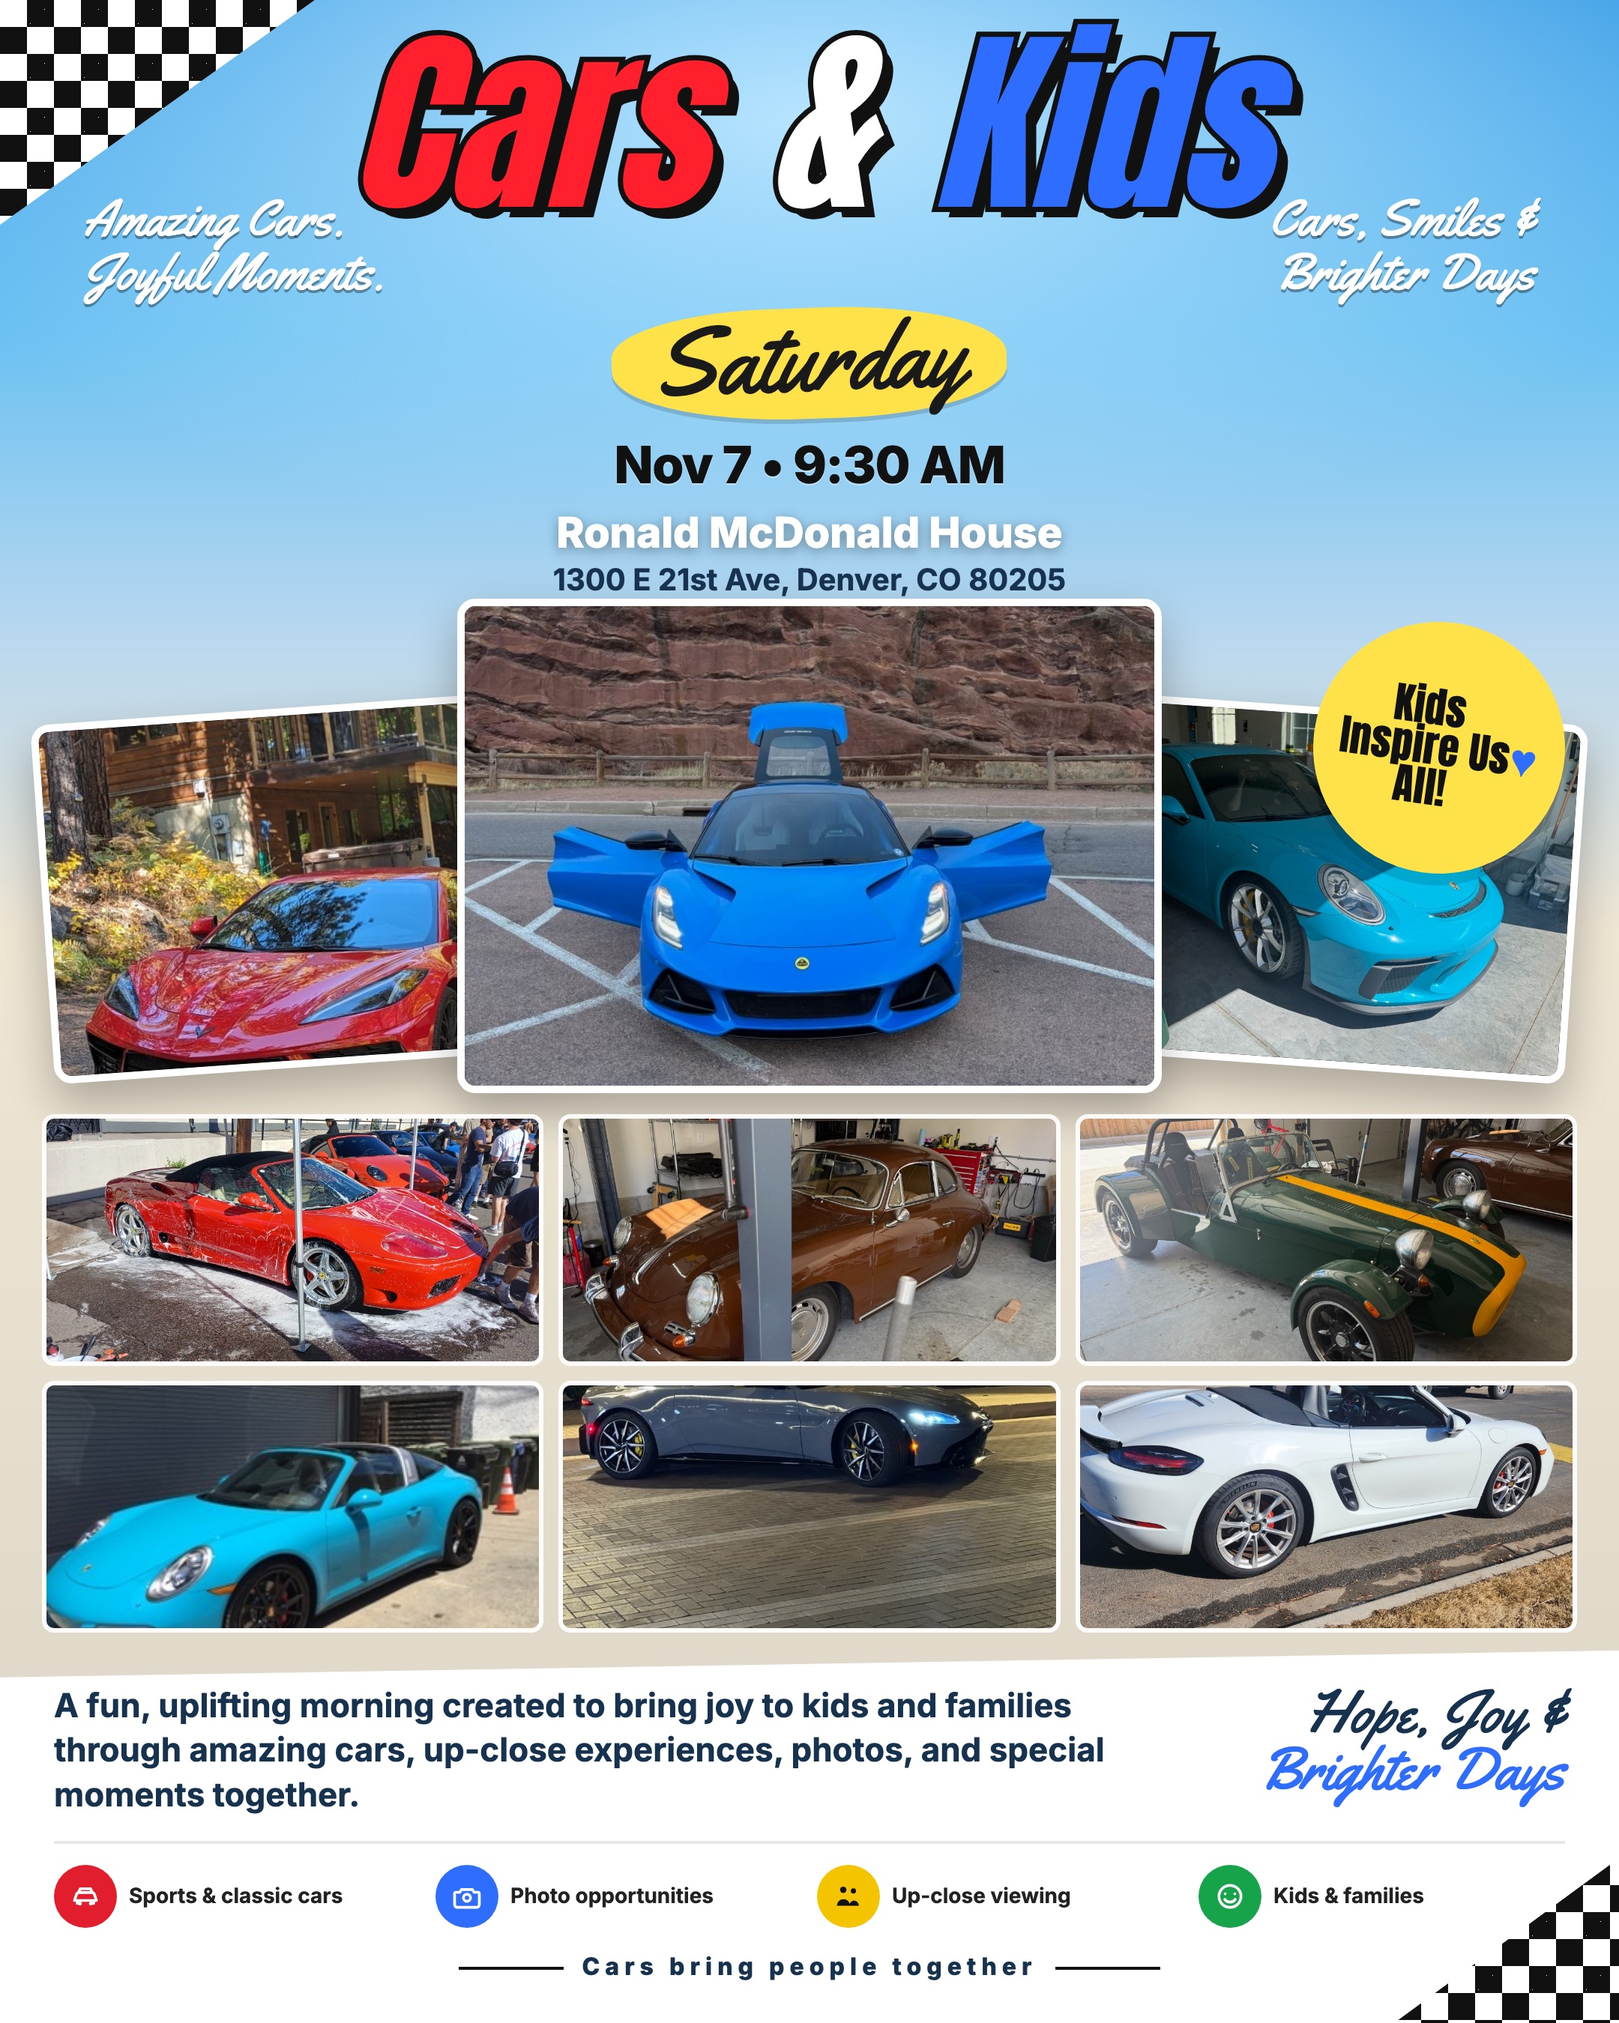
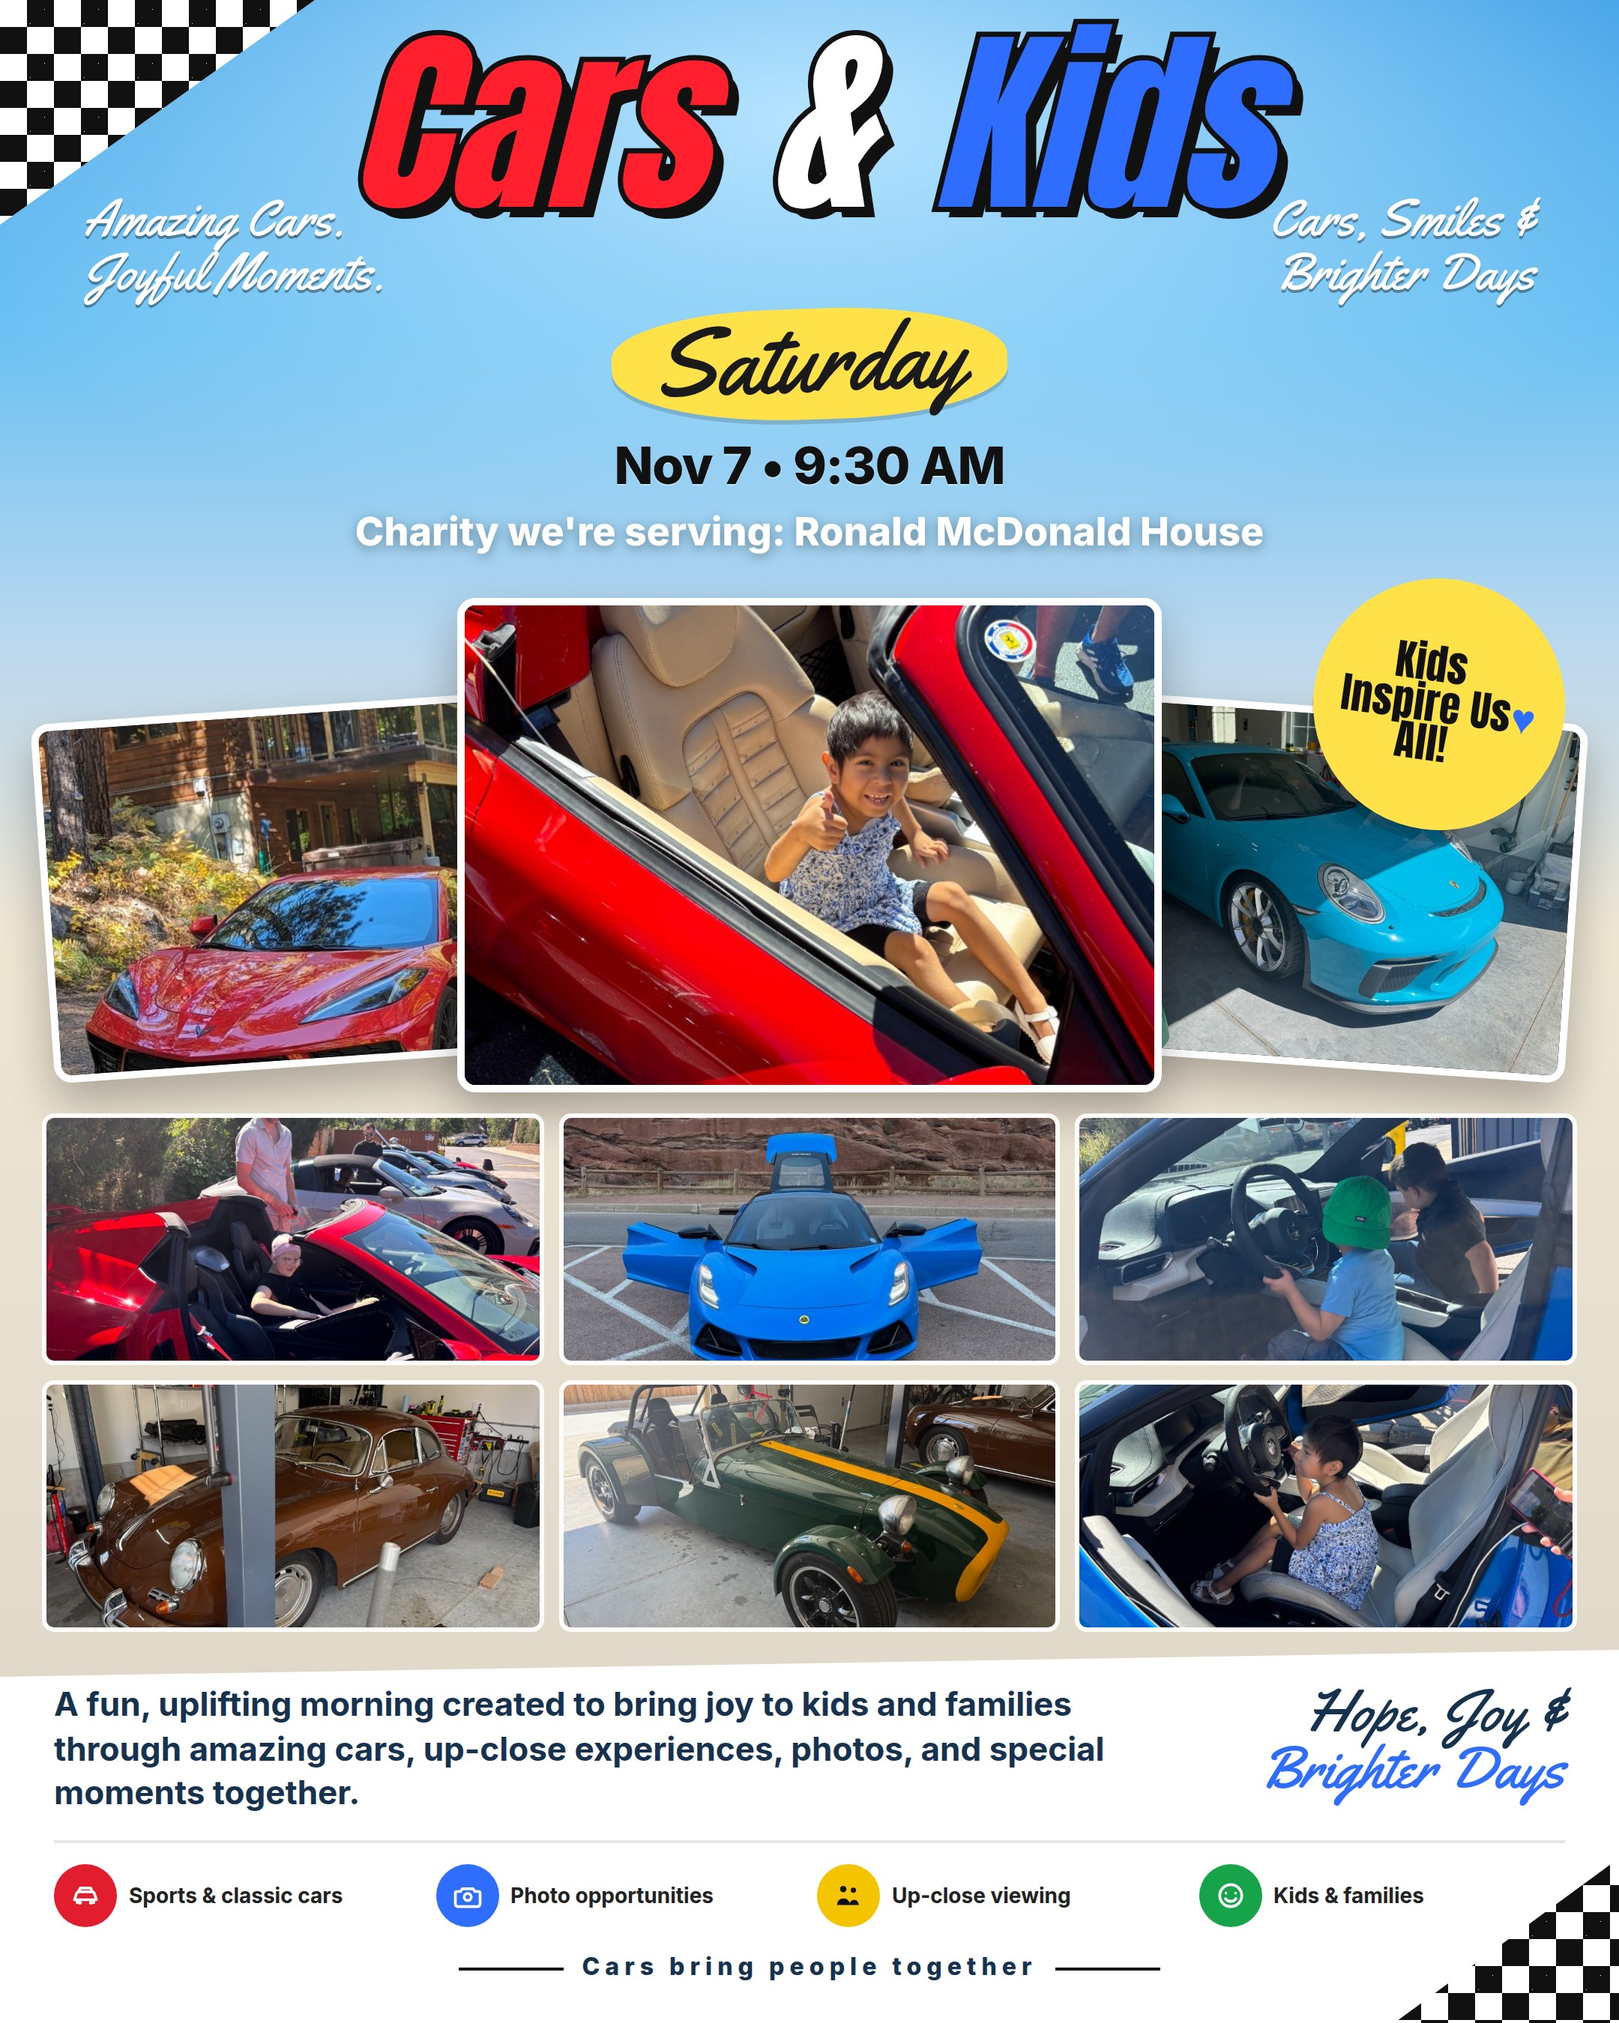
Update Oct 29 and Nov 7 event flyers.
Make the Thursday Make-A-Wish flyer a trunk-or-treat piece with costumes, candy, and about 100 families expected. Keep Saturday, November 7 at Ronald McDonald House as a regular event. Both flyers name the charity and leave off the street address.

diff --git a/flyers/poster.html b/flyers/poster.html
@@ -8,7 +8,11 @@
     <link rel="preconnect" href="https://fonts.gstatic.com" crossorigin>
     <link href="https://fonts.googleapis.com/css2?family=Anton&family=Inter:wght@500;700;800&family=Yellowtail&display=swap" rel="stylesheet">
     <script>
-        document.documentElement.dataset.show = (location.hash || '#rmh').replace('#', '');
+        function showPoster() {
+            document.documentElement.dataset.show = (location.hash || '#rmh').replace('#', '');
+        }
+        showPoster();
+        window.addEventListener('hashchange', showPoster);
     </script>
     <style>
         * { box-sizing: border-box; margin: 0; padding: 0; }
@@ -116,19 +120,17 @@
             color: #111;
             text-shadow: 0 1px 0 rgba(255, 255, 255, 0.4);
         }
-        .host {
+        .charity {
             margin-top: 8px;
-            font-size: 28px;
+            font-size: 26px;
             font-weight: 800;
             color: #fff;
             text-shadow: 0 2px 8px rgba(0, 0, 0, 0.35);
         }
-        .addr {
-            margin-top: 2px;
-            font-size: 20px;
-            font-weight: 700;
-            color: #16324f;
-        }
+        .kicker,
+        .event-name,
+        .treat,
+        .families { display: none; }
 
         .hero {
             position: relative;
@@ -304,6 +306,86 @@
             vertical-align: middle;
             margin: 0 12px;
         }
+
+        .halloween {
+            background:
+                radial-gradient(820px 380px at 50% 30px, rgba(255, 186, 48, 0.55), rgba(255, 186, 48, 0) 68%),
+                linear-gradient(#241042 0px, #5c2784 170px, #e25a12 360px, #f6d7a4 560px, #f8f3ea 100%);
+            color: #111;
+        }
+        .halloween .flag {
+            background-color: #ff8a1e;
+            background-image:
+                linear-gradient(45deg, #111 25%, transparent 25%),
+                linear-gradient(-45deg, #111 25%, transparent 25%),
+                linear-gradient(45deg, transparent 75%, #111 75%),
+                linear-gradient(-45deg, transparent 75%, #111 75%);
+        }
+        .halloween .top { padding-top: 20px; }
+        .halloween .logo { font-size: 104px; }
+        .halloween .asides,
+        .halloween .brush { display: none; }
+        .halloween .kicker,
+        .halloween .event-name,
+        .halloween .treat,
+        .halloween .families { display: block; }
+        .halloween .kicker {
+            margin-top: 0;
+            font-family: Anton, Impact, "Arial Black", sans-serif;
+            font-size: 32px;
+            letter-spacing: 0.16em;
+            color: #fff;
+            text-shadow: 0 3px 0 #111;
+        }
+        .halloween .event-name {
+            margin-top: 2px;
+            font-family: Anton, Impact, "Arial Black", sans-serif;
+            font-size: 84px;
+            line-height: 0.86;
+            letter-spacing: 0.5px;
+            color: #ffc107;
+            -webkit-text-stroke: 6px #111;
+            paint-order: stroke fill;
+            text-shadow: 6px 6px 0 #111;
+        }
+        .halloween .when {
+            margin-top: 8px;
+            color: #fff;
+            text-shadow: 0 2px 0 #111;
+        }
+        .halloween .treat {
+            margin-top: 6px;
+            font-size: 26px;
+            font-weight: 800;
+            color: #fff;
+            text-shadow: 0 2px 8px rgba(0, 0, 0, 0.45);
+        }
+        .halloween .families {
+            width: fit-content;
+            margin: 10px auto 0;
+            padding: 7px 18px 8px;
+            border-radius: 999px;
+            background: #111;
+            color: #fff;
+            font-size: 22px;
+            font-weight: 800;
+            letter-spacing: 0.01em;
+        }
+        .halloween .charity {
+            margin-top: 8px;
+            color: #ffe14a;
+            font-size: 26px;
+            text-shadow: 0 2px 0 #111;
+        }
+        .halloween .hero { height: 332px; margin-top: 10px; }
+        .halloween .hero .front { height: 292px; }
+        .halloween .hero .left,
+        .halloween .hero .right { height: 214px; bottom: 8px; }
+        .halloween .grid { grid-template-rows: 164px 164px; padding-top: 12px; }
+        .halloween .sheet { padding-top: 18px; padding-bottom: 20px; }
+        .halloween .sheet { background: #fffaf3; }
+        .halloween .hope span { color: #e25a12; }
+        .halloween .burst { background: #ff8a1e; }
     </style>
 </head>
 <body>
@@ -317,22 +399,21 @@
             </div>
             <p class="brush"><span>Saturday</span></p>
             <p class="when">Nov 7 &bull; 9:30 AM</p>
-            <p class="host">Ronald McDonald House</p>
-            <p class="addr">1300 E 21st Ave, Denver, CO 80205</p>
+            <p class="charity">Charity we're serving: Ronald McDonald House</p>
         </header>
         <div class="hero">
-            <img class="left" src="../images/cars/corvette-c8-red.jpg" alt="">
-            <img class="right" src="../images/cars/porsche-911-gt3-blue.jpg" alt="">
-            <img class="front" src="../images/cars/lotus-emira-blue.jpg" alt="">
+            <img class="left" src="../images/cars/corvette-c8-red.jpg" alt="Red Chevrolet Corvette">
+            <img class="right" src="../images/cars/porsche-911-gt3-blue.jpg" alt="Turquoise Porsche 911 GT3">
+            <img class="front" src="../images/media/photos/img-3171.jpg" alt="Child giving a thumbs-up from a red convertible" style="object-position:62% 42%">
             <p class="burst">Kids<br>Inspire Us<br>All! <i>&#9829;</i></p>
         </div>
         <div class="grid">
-            <img src="../images/cars/ferrari-360-wash.jpg" alt="" style="object-position:center 45%">
-            <img src="../images/cars/porsche-356-brown.jpg" alt="" style="object-position:center 50%">
-            <img src="../images/cars/caterham-seven-green.jpg" alt="" style="object-position:center 45%">
-            <img src="../images/cars/porsche-911-targa-blue.jpg" alt="" style="object-position:center 50%">
-            <img src="../images/cars/aston-vantage-night.jpg" alt="" style="object-position:center 92%">
-            <img src="../images/cars/porsche-718-boxster-white.jpg" alt="" style="object-position:center 50%">
+            <img src="../images/media/photos/img-3184.jpg" alt="Child sitting in a red Corvette" style="object-position:center 36%">
+            <img src="../images/cars/lotus-emira-blue.jpg" alt="Blue Lotus Emira" style="object-position:center 72%">
+            <img src="../images/media/photos/img-3153.jpg" alt="Children at the wheel of a blue Lotus" style="object-position:center 48%">
+            <img src="../images/cars/porsche-356-brown.jpg" alt="Brown Porsche 356" style="object-position:center 50%">
+            <img src="../images/cars/caterham-seven-green.jpg" alt="Green Caterham Seven" style="object-position:center 45%">
+            <img src="../images/media/photos/img-3206.jpg" alt="Child at the wheel of a blue sports car" style="object-position:42% 46%">
         </div>
         <footer class="sheet">
             <div class="flag flag-br"></div>
@@ -350,43 +431,41 @@
         </footer>
     </article>
 
-    <article class="poster" id="maw">
+    <article class="poster halloween" id="maw">
         <div class="flag flag-tl"></div>
         <header class="top">
             <h1 class="logo"><span class="cars">Cars</span> <span class="amp">&amp;</span> <span class="kids">Kids</span></h1>
-            <div class="asides">
-                <p class="script">Amazing Cars.<br>Joyful Moments.</p>
-                <p class="script right">Cars, Smiles &amp;<br>Brighter Days</p>
-            </div>
-            <p class="brush"><span>Thursday</span></p>
-            <p class="when">Oct 29 &bull; 4:30 PM</p>
-            <p class="host">Make-A-Wish</p>
-            <p class="addr">7951 E Maplewood Ave #126, Greenwood Village, CO 80111</p>
+            <p class="kicker">Make-A-Wish</p>
+            <h2 class="event-name">Trunk or Treat</h2>
+            <p class="when">Thursday, Oct 29 &bull; 4:30 PM</p>
+            <p class="treat">We'll be in costume, giving out candy.</p>
+            <p class="families">About 100 families are expected to attend.</p>
+            <p class="charity">Charity we're serving: Make-A-Wish</p>
         </header>
         <div class="hero">
-            <img class="left" src="../images/cars/corvette-c8-red.jpg" alt="">
-            <img class="right" src="../images/cars/porsche-911-gt3-blue.jpg" alt="">
-            <img class="front" src="../images/cars/lotus-emira-blue.jpg" alt="">
-            <p class="burst">Kids<br>Inspire Us<br>All! <i>&#9829;</i></p>
+            <img class="left" src="../images/cars/lotus-emira-blue.jpg" alt="Blue Lotus Emira with the doors open" style="object-position:center 70%">
+            <img class="right" src="../images/cars/porsche-911-gt3-blue.jpg" alt="Turquoise Porsche 911 GT3">
+            <img class="front" src="../images/media/photos/img-3184.jpg" alt="Child in a pink cap sitting in a red Corvette" style="object-position:center 40%">
+            <p class="burst">Candy<br>&amp;<br>Costumes</p>
         </div>
         <div class="grid">
-            <img src="../images/cars/ferrari-360-wash.jpg" alt="" style="object-position:center 45%">
-            <img src="../images/cars/porsche-356-brown.jpg" alt="" style="object-position:center 50%">
-            <img src="../images/cars/caterham-seven-green.jpg" alt="" style="object-position:center 45%">
-            <img src="../images/cars/porsche-911-targa-blue.jpg" alt="" style="object-position:center 50%">
-            <img src="../images/cars/aston-vantage-night.jpg" alt="" style="object-position:center 92%">
-            <img src="../images/cars/porsche-718-boxster-white.jpg" alt="" style="object-position:center 50%">
+            <img src="../images/media/photos/img-3171.jpg" alt="Child giving a thumbs-up from a red convertible" style="object-position:62% 40%">
+            <img src="../images/cars/corvette-c8-red.jpg" alt="Red Chevrolet Corvette" style="object-position:center 42%">
+            <img src="../images/media/photos/img-3153.jpg" alt="Children at the wheel of a blue Lotus" style="object-position:center 46%">
+            <img src="../images/cars/ferrari-360-wash.jpg" alt="Red Ferrari 360 Spider" style="object-position:center 45%">
+            <img src="../images/media/photos/img-3178.jpg" alt="Child standing in front of a red Corvette" style="object-position:center 28%">
+            <img src="../images/cars/porsche-718-boxster-white.jpg" alt="White Porsche 718 Boxster" style="object-position:center 50%">
         </div>
         <footer class="sheet">
             <div class="flag flag-br"></div>
             <div class="sheet-row">
-                <p class="blurb">A fun, uplifting afternoon created to bring joy to kids and families through amazing cars, up-close experiences, photos, and special moments together.</p>
-                <p class="hope">Hope, Joy &amp; <span>Brighter Days</span></p>
+                <p class="blurb">Trunk or treat with kids and families. Come see the cars, take photos, and pick up candy from people in costume.</p>
+                <p class="hope">Candy, Cars &amp; <span>Bright Smiles</span></p>
             </div>
             <ul class="icons">
                 <li><span class="bubble red"><svg viewBox="0 0 24 24" aria-hidden="true"><path d="M4 15h16l-1.5-4.5a2 2 0 0 0-1.9-1.3H7.4a2 2 0 0 0-1.9 1.3L4 15z"/><path d="M6 15v2.2M18 15v2.2"/><circle cx="8" cy="17.2" r="1.4" fill="currentColor" stroke="none"/><circle cx="16" cy="17.2" r="1.4" fill="currentColor" stroke="none"/><path d="M7 9.2 8.2 6.5h7.6L17 9.2"/></svg></span>Sports &amp; classic cars</li>
+                <li><span class="bubble yellow"><svg class="solid" viewBox="0 0 24 24" aria-hidden="true"><path d="M9.1 12 3.2 8.1v7.8L9.1 12z"/><path d="M14.9 12 20.8 8.1v7.8L14.9 12z"/><ellipse cx="12" cy="12" rx="4.3" ry="3.4"/></svg></span>Candy &amp; costumes</li>
                 <li><span class="bubble blue"><svg viewBox="0 0 24 24" aria-hidden="true"><path d="M8 7h8l1.2 2H20a1 1 0 0 1 1 1v8a2 2 0 0 1-2 2H5a2 2 0 0 1-2-2v-8a1 1 0 0 1 1-1h2.8L8 7z"/><circle cx="12" cy="13" r="2.6"/></svg></span>Photo opportunities</li>
-                <li><span class="bubble yellow"><svg class="solid" viewBox="0 0 24 24" aria-hidden="true"><circle cx="8.2" cy="7.2" r="2.3"/><circle cx="15.6" cy="8" r="1.9"/><path d="M3.6 18.8c.35-3.1 2.3-4.7 4.8-4.7 2.4 0 4.3 1.5 4.8 4.7H3.6z"/><path d="M12.6 18.8c.25-2.3 1.7-3.6 3.5-3.6 1.7 0 3.1 1.1 3.5 3.6h-7z"/></svg></span>Up-close viewing</li>
                 <li><span class="bubble green"><svg viewBox="0 0 24 24" aria-hidden="true"><circle cx="12" cy="12" r="8"/><path d="M8.5 10.2h.01M15.5 10.2h.01"/><path d="M8.2 14.2c.9 1.4 2.2 2 3.8 2s2.9-.6 3.8-2"/></svg></span>Kids &amp; families</li>
             </ul>
             <p class="tag">Cars bring people together</p>

diff --git a/events.js b/events.js
@@ -14,14 +14,14 @@ window.CARS_AND_KIDS_EVENTS = [
     },
     {
         id: 'make-a-wish-2026-10-29',
-        title: 'Make-A-Wish',
+        title: 'Make-A-Wish Trunk or Treat',
         start: '2026-10-29T16:30:00-06:00',
         pastAt: '2026-10-30T00:00:00-06:00',
         location: 'Make-A-Wish',
         address: '7951 E Maplewood Ave #126, Greenwood Village, CO 80111',
-        blurb: 'An afternoon with kids and families at Make-A-Wish — amazing cars, up-close experiences, photos, and special moments together.',
+        blurb: 'Trunk or treat with kids and families. People will be in costume, giving out candy, with amazing cars, up-close visits, and photos.',
         flyer: 'images/events/2026-10-29-make-a-wish-flyer.jpg',
-        flyerAlt: 'Cars & Kids flyer for Thursday, October 29, 4:30 PM at Make-A-Wish, 7951 E Maplewood Ave #126, Greenwood Village',
+        flyerAlt: "Cars & Kids flyer for Make-A-Wish Trunk or Treat, Thursday, October 29, 4:30 PM. Costumes and candy. About 100 families are expected to attend. Charity we're serving: Make-A-Wish.",
     },
     {
         id: 'ronald-mcdonald-house-2026-11-07',
@@ -32,6 +32,6 @@ window.CARS_AND_KIDS_EVENTS = [
         address: '1300 E 21st Ave, Denver, CO 80205',
         blurb: 'A morning with kids and families at Ronald McDonald House — amazing cars, up-close experiences, photos, and special moments together.',
         flyer: 'images/events/2026-11-07-ronald-mcdonald-house-flyer.jpg',
-        flyerAlt: 'Cars & Kids flyer for Saturday, November 7, 9:30 AM at Ronald McDonald House, 1300 E 21st Ave, Denver',
+        flyerAlt: "Cars & Kids flyer for Saturday, November 7, 9:30 AM. Charity we're serving: Ronald McDonald House.",
     },
 ];
